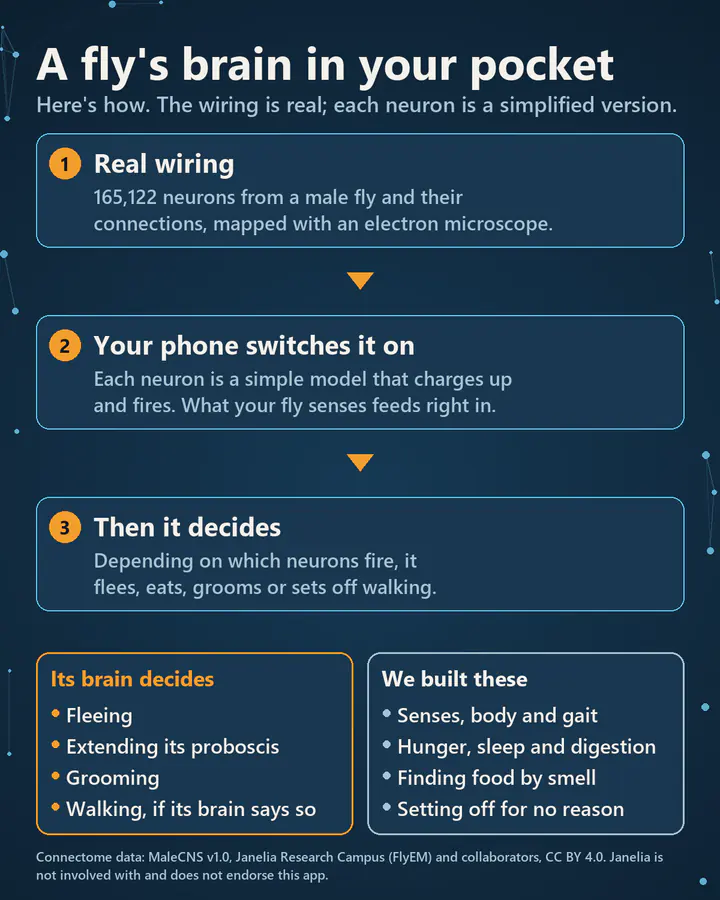
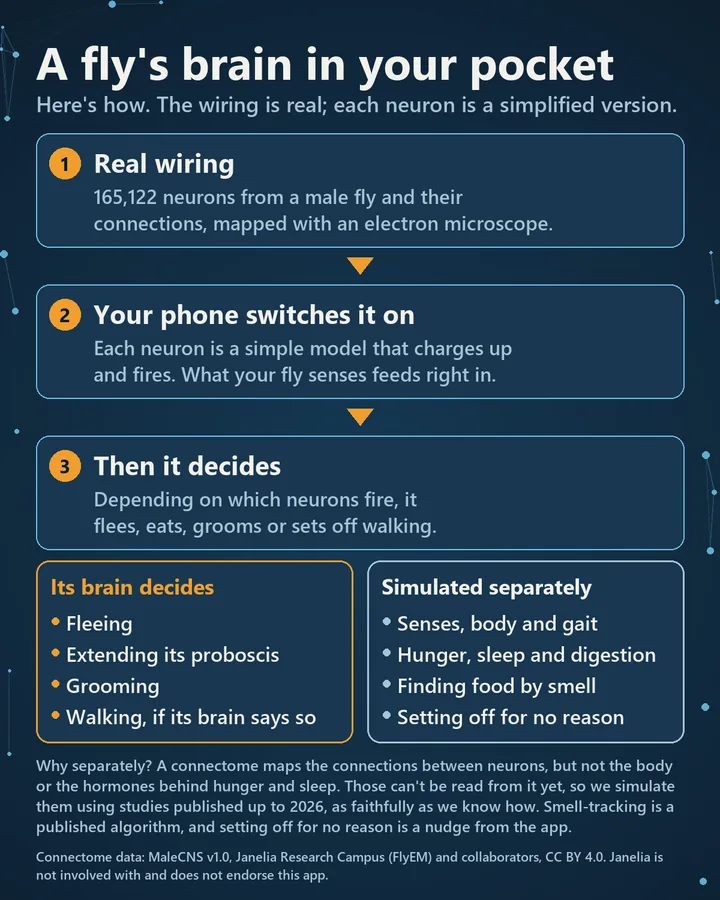
Flypet: «Lo simulamos aparte» en vez de «lo ponemos nosotros», con el porqué (el conectoma no recoge hormonas ni cuerpo)

diff --git a/src/content/flypet.ts b/src/content/flypet.ts
@@ -105,8 +105,8 @@ export const flypetPage: Record<Locale, FlypetPage> = {
           file: "01_como_funciona",
           label: "Cómo funciona",
           title: "El cableado es real. Y ella decide.",
-          text: "Sale del microscopio electrónico. Tu móvil lo pone en marcha, con un modelo sencillo para cada neurona. Y según cuáles disparen, ella huye, come, se limpia o echa a andar. Lo que no sale de ahí lo ponemos nosotros, y aquí lo ves separado.",
-          alt: "Esquema en tres pasos: un cableado de verdad, con 165.122 neuronas de una mosca macho; tu móvil lo pone en marcha, con un modelo sencillo de cada neurona; y ella decide. Debajo, dos listas. Lo decide su cerebro: huir, sacar la trompa y comer, limpiarse y andar, si manda su cerebro. Lo ponemos nosotros: sentidos, cuerpo y marcha; hambre, sueño y digestión; buscar comida por el olor; echar a andar sin motivo.",
+          text: "Sale del microscopio electrónico. Tu móvil lo pone en marcha, con un modelo sencillo para cada neurona. Y según cuáles disparen, ella huye, come, se limpia o echa a andar. Lo que hoy no se puede leer de un conectoma, como el cuerpo o las hormonas del hambre y del sueño, lo simulamos aparte con los estudios publicados hasta 2026, lo más fiel que hemos sabido. En el esquema lo ves.",
+          alt: "Esquema en tres pasos: un cableado de verdad, con 165.122 neuronas de una mosca macho; tu móvil lo pone en marcha, con un modelo sencillo de cada neurona; y ella decide. Debajo, dos listas. Lo decide su cerebro: huir, sacar la trompa y comer, limpiarse y andar, si manda su cerebro. Lo simulamos aparte: sentidos, cuerpo y marcha; hambre, sueño y digestión; buscar comida por el olor; echar a andar sin motivo. Debajo, por qué: Un conectoma recoge las conexiones entre neuronas, pero no el cuerpo ni las hormonas del hambre y del sueño. Eso hoy no se puede leer de él, así que lo simulamos con los estudios publicados hasta 2026, lo más fiel que hemos sabido. El olfato sigue un algoritmo publicado, y echar a andar sin motivo es un empujón de la app.",
           credit: true,
         },
         {
@@ -217,7 +217,7 @@ export const flypetPage: Record<Locale, FlypetPage> = {
     truthTag: "SIN TRUCOS",
     truthTitle: "Lo que es y lo que no",
     truth: [
-      "El cableado es real. El modelo de cada neurona es una simplificación (integración y disparo), del tipo que se usa en investigación. Sus sentidos, su cuerpo, el hambre y el sueño los hemos modelado a partir de estudios publicados.",
+      "El cableado es real. El modelo de cada neurona es una simplificación (integración y disparo), del tipo que se usa en investigación. Sus sentidos, su cuerpo, el hambre y el sueño los simulamos aparte, a partir de estudios publicados, porque hoy no se pueden leer de un conectoma.",
       "La búsqueda de comida por el olor es un algoritmo publicado, no sale del conectoma, y cuando echa a andar sin motivo es porque la app le da un empujón: sin él se quedaría quieta.",
       "No es una mosca de verdad: es lo más parecido que hemos sabido hacer.",
     ],
@@ -270,8 +270,8 @@ export const flypetPage: Record<Locale, FlypetPage> = {
           file: "01_como_funciona",
           label: "How it works",
           title: "The wiring is real. Then it decides.",
-          text: "It was mapped with an electron microscope. Your phone switches it on, with a simple model for each neuron. And depending on which ones fire, it flees, eats, grooms or sets off walking. Whatever doesn't come from there, we built, and you can see the split right here.",
-          alt: "Diagram in three steps: real wiring, with 165,122 neurons from a male fly; your phone switches it on, with a simple model of each neuron; then it decides. Below, two lists. Its brain decides: fleeing, extending its proboscis, grooming, and walking if its brain says so. We built these: senses, body and gait; hunger, sleep and digestion; finding food by smell; setting off for no reason.",
+          text: "It was mapped with an electron microscope. Your phone switches it on, with a simple model for each neuron. And depending on which ones fire, it flees, eats, grooms or sets off walking. What can't be read from a connectome yet, like the body or the hormones behind hunger and sleep, we simulate separately using studies published up to 2026, as faithfully as we know how. The diagram shows the split.",
+          alt: "Diagram in three steps: real wiring, with 165,122 neurons from a male fly; your phone switches it on, with a simple model of each neuron; then it decides. Below, two lists. Its brain decides: fleeing, extending its proboscis, grooming, and walking if its brain says so. Simulated separately: senses, body and gait; hunger, sleep and digestion; finding food by smell; setting off for no reason. Below, why: A connectome maps the connections between neurons, but not the body or the hormones behind hunger and sleep. Those can't be read from it yet, so we simulate them using studies published up to 2026, as faithfully as we know how. Smell-tracking is a published algorithm, and setting off for no reason is a nudge from the app.",
           credit: true,
         },
         {
@@ -382,7 +382,7 @@ export const flypetPage: Record<Locale, FlypetPage> = {
     truthTag: "NO TRICKS",
     truthTitle: "What this is and isn't",
     truth: [
-      "The wiring is real. The model of each neuron is a simplification (integrate-and-fire), the kind used in research. Its senses, body, hunger and sleep are modeled from published studies.",
+      "The wiring is real. The model of each neuron is a simplification (integrate-and-fire), the kind used in research. Its senses, body, hunger and sleep are simulated separately from published studies, because they can't be read from a connectome yet.",
       "Finding food by smell is a published algorithm and doesn't come from the connectome, and when it sets off for no reason, the app gave it a nudge: without one it would just stand there.",
       "It isn't a real fly. It's the closest we've managed.",
     ],
